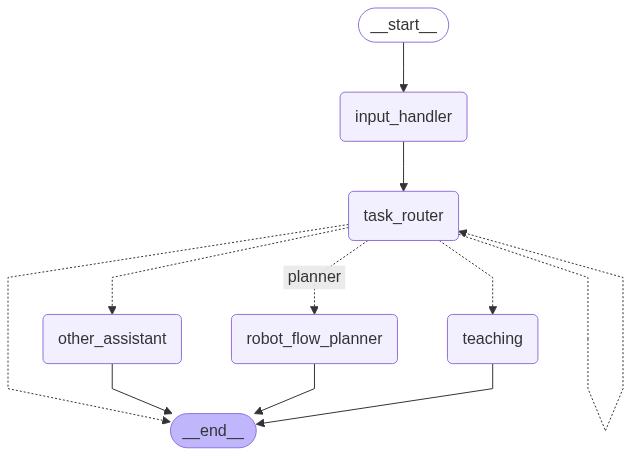
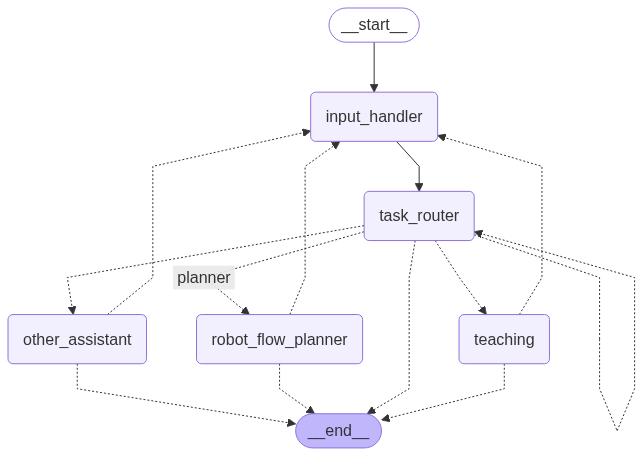
更新教学节点的优先级规则，优化对用户输入的判断逻辑，增强对示教点相关操作的处理；修改重新输入条件，明确模糊输入的分类标准；更新工作流可视化图像以反映最新的逻辑调整。

diff --git a/backend/langgraphchat/graph/nodes/task_router.py b/backend/langgraphchat/graph/nodes/task_router.py
@@ -30,9 +30,9 @@ PLANNER_EXAMPLES = """
 
 TEACHING_PRIORITY_RULES = """**重要：会话模式持续性与 teaching 节点优先**
 - 如果用户之前进行过示教点操作（即对话历史中最近的 AI 或用户消息与示教点相关），并且当前输入涉及点位、坐标、位置等相关内容，应优先路由到 teaching 节点。
-- **首要规则：当用户输入包含明确的"示教点相关名词"（如 "坐标/coordinate(s)", "点/point(s)", "位置/position", "示教点/teaching point", 或其具体名称如 "P1", "入口点"）与明确的"数据管理操作性动词"（如 "查询/query/get/tell me/what is/what are", "列出/list/show", "获取/fetch", "保存/save/record", "修改/update/change", "删除/delete/remove", "创建/create", "复制/copy", "拷贝/duplicate", "克隆/clone", "粘贴为新/paste as new"）的组合时，无论表达方式如何，均必须将 `next_node` 判断为 `teaching`。这类操作被视为对示教点数据的直接管理。此规则的优先级最高，除非用户明确表示要用这些点来构建一个序列化的机器人动作流程（此时应判断为 `planner`）。**
-- 特别注意代词引用："它们(them)"、"这些点(these points)"、"那些(those)"等，如果上下文中刚讨论过示教点，则后续操作通常指向 `teaching`。
-- 涉及坐标、位置、点位查询的模糊表达，优先考虑 teaching 节点。
+- **主要规则：当用户输入包含明确的"示教点相关名词"（如 "坐标/coordinate(s)", "点/point(s)", "位置/position", "示教点/teaching point", 或其具体名称如 "P1", "入口点"）与明确的"数据管理操作性动词"（如 "查询/query/get/tell me/what is/what are", "列出/list/show", "获取/fetch", "保存/save/record", "修改/update/change", "删除/delete/remove", "创建/create", "复制/copy", "拷贝/duplicate", "克隆/clone", "粘贴为新/paste as new"）的组合时，通常应将 `next_node` 判断为 `teaching`。这类操作被视为对示教点数据的直接管理。**此规则的优先级较高，但如果用户明确表示要用这些点来构建一个序列化的机器人动作流程（例如，包含"移动到"、"然后"、"执行"、"如果...就..."等流程性词汇），则应判断为 `planner`。**
+- 特别注意代词引用："它们(them)"、"这些点(these points)"、"那些(those)"等，如果上下文中刚讨论过示教点，并且当前操作是针对这些点的数据管理（如查询、修改），则后续操作倾向于 `teaching`。
+- 涉及坐标、位置、点位查询的模糊表达，请仔细判断上下文。如果用户似乎在管理数据，则倾向 `teaching`；如果似乎在构建流程，则倾向 `planner`。
 - 即使用户使用了"粘贴(paste)"这样的词，如果上下文明确指向的是用一个已有点位的数据创建一个新的点位，也应归类为 `teaching`。例如："复制点A，然后粘贴为一个新点B"。"""
 
 TEACHING_DESCRIPTION = """用户主要目的是查询、保存、修改、删除单个或多个已命名的坐标点 (示教点) 的信息，或者通过复制现有示教点信息来创建新的示教点。这包括坐标数据的查看和管理，而不是用它们来构建复杂流程。"""
@@ -79,7 +79,10 @@ END_SESSION_EXAMPLES = """
     例如："结束吧", "退出", "就这样了", "谢谢，再见"
 """
 
-REPHRASE_CONDITION = """如果用户的输入不属于以上定义的任何一种节点，或者意图不明确，无法根据节点描述清晰判断，请将任务分类为 **重新输入 (rephrase)**，并提示用户更清晰地描述他们的需求。"""
+REPHRASE_CONDITION = """如果用户的输入不属于以上定义的任何一种节点，或者意图不明确，无法根据节点描述清晰判断：
+1. 如果输入看起来像是一个问题或通用对话，但又不符合 'other_assistant' 的严格定义（即不涉及系统能力、使用方法或完全无关的闲聊），请先尝试判断为 'other_assistant'。
+2. 如果判断为 'other_assistant' 也不合适，或者输入确实非常模糊，请将任务分类为 **重新输入 (rephrase)**，并提示用户更清晰地描述他们的需求。
+避免在不确定的情况下默认路由到 'teaching'。"""
 
 FEW_SHOT_EXAMPLES = """**输入示例与预期输出（用于学习）：**
 
